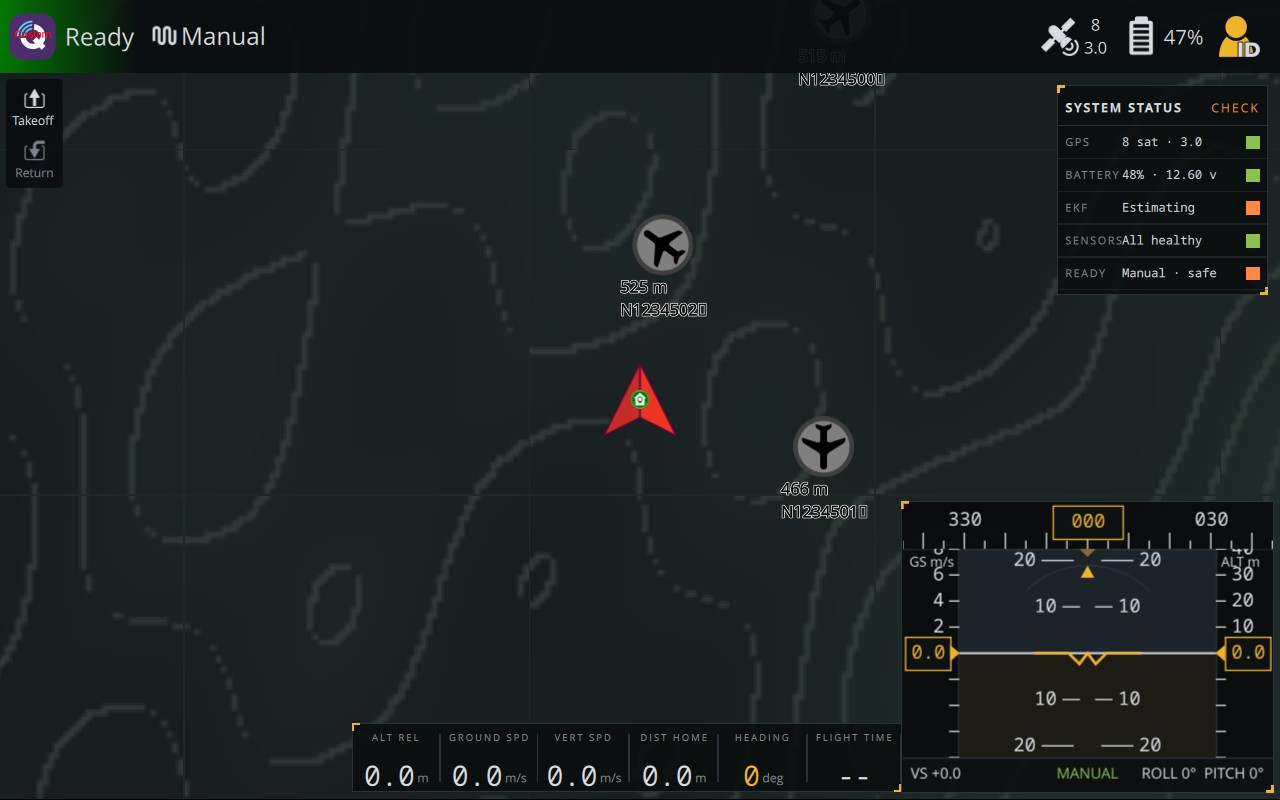
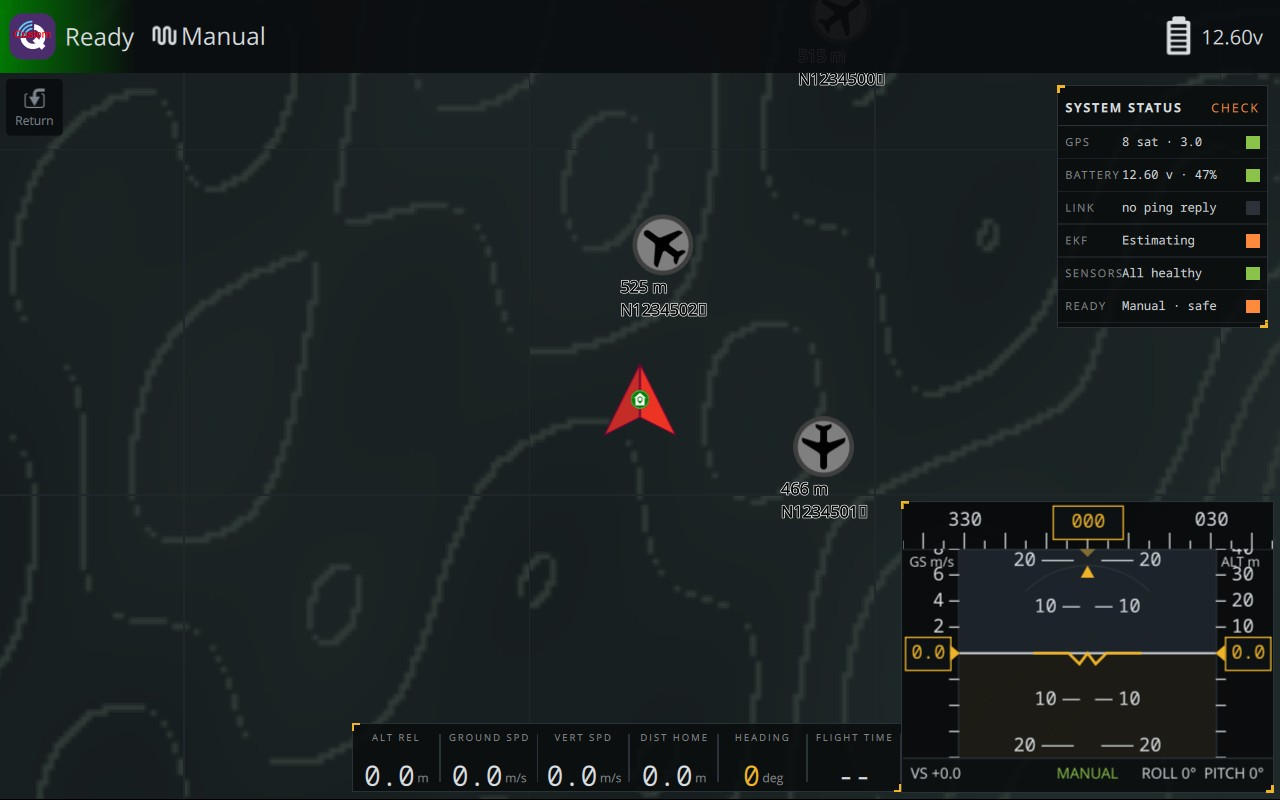
Gate FPV-irrelevant settings pages behind advanced mode
Ships a copy of the generated settings page list with Plan View, ADS-B,
Maps, NTRIP/RTK, Remote ID and PX4 log transfer visible only in advanced
mode, hides guided-flight and mission items from the Fly View settings page,
turns the multi-vehicle panel off by default, and uses the literal QML
global settings group name since the constant is private. Adds real-build
screenshots of the menus and settings screens.

Claude-Session: https://claude.ai/code/session_015ZbBAPtYojzH3XoqWn6y18

Changed region(s): [[0.8438, 0.1875, 1.0, 0.4062], [0.8125, 0.0, 1.0, 0.0938], [0.0, 0.0938, 0.0625, 0.25]]

diff --git a/custom/src/SettingsPagesModel.qml b/custom/src/SettingsPagesModel.qml
@@ -1,0 +1,193 @@
+import QtQml.Models
+
+import QGroundControl
+import QGroundControl.Controls
+
+// Stealth FPV override of the generated settings page list (src/UI/AppSettings/pages/SettingsPages.json).
+// Pages an FPV pilot does not need are advanced-mode only. Regenerate from the build
+// directory (src/UI/AppSettings/generated/SettingsPagesModel.qml) after upstream changes.
+
+ListModel {
+
+    ListElement {
+        name: qsTranslate("SettingsPages.json", "General")
+        url: "qrc:/qml/QGroundControl/AppSettings/GeneralSettings.qml"
+        iconUrl: "qrc:/res/QGCLogoWhite.svg"
+        sections: '["General", "Vehicle Preferences", "Units"]'
+        searchTerms: '[{"section": 0, "terms": "general language locale color scheme dark mode theme palette follow me audio volume sound gstreamer debug level ui scale font size zoom save path storage reset clear settings factory reset"}, {"section": 1, "terms": "general vehicle preferences firmware ardupilot px4 vehicle multirotor fixed wing vtol rover sub"}, {"section": 2, "terms": "general units metric imperial distance speed area temperature feet meters"}]'
+        translatableTerms: '[{"section": 0, "context": "General.SettingsUI.json", "terms": ["General", "language", "locale", "color scheme", "dark mode", "theme", "palette", "follow me", "audio", "volume", "sound", "gstreamer", "debug level", "ui scale", "font size", "zoom", "save path", "storage", "reset", "clear settings", "factory reset"]}, {"section": 1, "context": "General.SettingsUI.json", "terms": ["Vehicle Preferences", "firmware", "ardupilot", "px4", "vehicle", "multirotor", "fixed wing", "vtol", "rover", "sub"]}, {"section": 2, "context": "General.SettingsUI.json", "terms": ["Units", "units", "metric", "imperial", "distance", "speed", "area", "temperature", "feet", "meters"]}]'
+        pageVisible: function() { return true }
+    }
+
+    ListElement {
+        name: qsTranslate("SettingsPages.json", "Fly View")
+        url: "qrc:/qml/QGroundControl/AppSettings/FlyViewSettings.qml"
+        iconUrl: "qrc:/qmlimages/PaperPlane.svg"
+        sections: '["General", "Guided Commands", "MAVLink Actions", "Virtual Joystick", "Instrument Panel"]'
+        searchTerms: '[{"section": 0, "terms": "fly view general checklist preflight multi vehicle center map log replay camera control home position mission popup"}, {"section": 1, "terms": "fly view guided commands altitude guided minimum maximum goto go to loiter radius confirmation"}, {"section": 2, "terms": "fly view mavlink actions mavlink action pre-arm post-arm disarm"}, {"section": 3, "terms": "fly view virtual joystick joystick virtual stick throttle left handed auto center"}, {"section": 4, "terms": "fly view instrument panel compass indicators hud instrument nose up"}]'
+        translatableTerms: '[{"section": 0, "context": "FlyView.SettingsUI.json", "terms": ["General", "checklist", "preflight", "multi vehicle", "center map", "log replay", "camera control", "home position", "mission popup"]}, {"section": 1, "context": "FlyView.SettingsUI.json", "terms": ["Guided Commands", "altitude", "guided", "minimum", "maximum", "goto", "go to", "loiter radius", "confirmation"]}, {"section": 2, "context": "FlyView.SettingsUI.json", "terms": ["MAVLink Actions", "mavlink action", "pre-arm", "post-arm", "disarm"]}, {"section": 3, "context": "FlyView.SettingsUI.json", "terms": ["Virtual Joystick", "joystick", "virtual stick", "throttle", "left handed", "auto center"]}, {"section": 4, "context": "FlyView.SettingsUI.json", "terms": ["Instrument Panel", "compass", "indicators", "hud", "instrument", "nose up"]}]'
+        pageVisible: function() { return true }
+    }
+
+    ListElement {
+        name: qsTranslate("SettingsPages.json", "3D View")
+        url: "qrc:/qml/QGroundControl/AppSettings/Viewer3DSettings.qml"
+        iconUrl: "qrc:/qml/QGroundControl/Viewer3D/City3DMapIcon.svg"
+        sections: '["General", "Data"]'
+        searchTerms: '[{"section": 0, "terms": "3d view general 3d map enable 3d map provider"}, {"section": 1, "terms": "3d view data osm openstreetmap 3d data building height altitude bias"}]'
+        translatableTerms: '[{"section": 0, "context": "Viewer3D.SettingsUI.json", "terms": ["General", "3d view", "3d map", "enable 3d", "map provider"]}, {"section": 1, "context": "Viewer3D.SettingsUI.json", "terms": ["Data", "osm", "openstreetmap", "3d data", "building height", "altitude bias"]}]'
+        pageVisible: function() { return QGroundControl.settingsManager.viewer3DSettings.userVisible }
+    }
+
+    ListElement {
+        name: qsTranslate("SettingsPages.json", "Plan View")
+        url: "qrc:/qml/QGroundControl/AppSettings/PlanViewSettings.qml"
+        iconUrl: "qrc:/qmlimages/Plan.svg"
+        sections: '["General"]'
+        searchTerms: '[{"section": 0, "terms": "plan view general mission altitude default altitude vtol transition condition gate takeoff landing pattern waypoint"}]'
+        translatableTerms: '[{"section": 0, "context": "PlanView.SettingsUI.json", "terms": ["General", "mission altitude", "default altitude", "vtol transition", "condition gate", "takeoff", "landing pattern", "waypoint"]}]'
+        pageVisible: function() { return QGroundControl.corePlugin.showAdvancedUI }
+    }
+
+    ListElement {
+        name: "Divider"
+    }
+
+    ListElement {
+        name: qsTranslate("SettingsPages.json", "ADSB Server")
+        url: "qrc:/qml/QGroundControl/AppSettings/ADSBServerSettings.qml"
+        iconUrl: "qrc:/InstrumentValueIcons/airplane.svg"
+        sections: '["ADSB Server"]'
+        searchTerms: '[{"section": 0, "terms": "adsb server adsb ads-b traffic aircraft tracking sbs server host port"}]'
+        translatableTerms: '[{"section": 0, "context": "ADSBVehicleManager.SettingsUI.json", "terms": ["ADSB Server", "adsb", "ads-b", "traffic", "aircraft", "tracking", "sbs", "server", "host", "port"]}]'
+        pageVisible: function() { return QGroundControl.corePlugin.showAdvancedUI }
+    }
+
+    ListElement {
+        name: qsTranslate("SettingsPages.json", "Comm Links")
+        url: "qrc:/qml/QGroundControl/AppSettings/CommLinksSettings.qml"
+        iconUrl: "qrc:/InstrumentValueIcons/usb.svg"
+        sections: '["AutoConnect", "NMEA GPS", "Link Management"]'
+        searchTerms: '[{"section": 0, "terms": "comm links autoconnect auto connect pixhawk sik radio librepilot udp rtk gps usb"}, {"section": 1, "terms": "comm links nmea gps nmea gps serial baud rate external gps"}, {"section": 2, "terms": "comm links link management link connection serial tcp udp bluetooth add link"}]'
+        translatableTerms: '[{"section": 0, "context": "CommLinks.SettingsUI.json", "terms": ["AutoConnect", "auto connect", "pixhawk", "sik radio", "librepilot", "udp", "rtk gps", "usb"]}, {"section": 1, "context": "CommLinks.SettingsUI.json", "terms": ["NMEA GPS", "nmea", "gps", "serial", "baud rate", "external gps"]}, {"section": 2, "context": "CommLinks.SettingsUI.json", "terms": ["Link Management", "link", "connection", "serial", "tcp", "udp", "bluetooth", "add link"]}]'
+        pageVisible: function() { return true }
+    }
+
+    ListElement {
+        name: qsTranslate("SettingsPages.json", "Logging")
+        url: "qrc:/qml/QGroundControl/LogManager/AppLogging.qml"
+        iconUrl: "qrc:/InstrumentValueIcons/conversation.svg"
+        sections: '[]'
+        searchTerms: '[]'
+        translatableTerms: '[]'
+        pageVisible: function() { return true }
+    }
+
+    ListElement {
+        name: qsTranslate("SettingsPages.json", "Maps")
+        url: "qrc:/qml/QGroundControl/AppSettings/MapsSettings.qml"
+        iconUrl: "qrc:/InstrumentValueIcons/globe.svg"
+        sections: '["Map Provider", "Offline Maps", "Tokens", "Mapbox Login", "Custom Map URL", "Tile Cache"]'
+        searchTerms: '[{"section": 0, "terms": "maps map provider satellite terrain street hybrid google bing"}, {"section": 1, "terms": "maps offline maps offline download cache tile set"}, {"section": 2, "terms": "maps tokens token api key tianditu mapbox esri vworld openaip"}, {"section": 3, "terms": "maps mapbox login mapbox account style"}, {"section": 4, "terms": "maps custom map url custom map wms tile url tile server"}, {"section": 5, "terms": "maps tile cache cache disk size memory size"}]'
+        translatableTerms: '[{"section": 0, "context": "Maps.SettingsUI.json", "terms": ["Map Provider", "map provider", "satellite", "terrain", "street", "hybrid", "google", "bing"]}, {"section": 1, "context": "Maps.SettingsUI.json", "terms": ["Offline Maps", "offline", "download", "cache", "tile set"]}, {"section": 2, "context": "Maps.SettingsUI.json", "terms": ["Tokens", "token", "api key", "tianditu", "mapbox", "esri", "vworld", "openaip"]}, {"section": 3, "context": "Maps.SettingsUI.json", "terms": ["Mapbox Login", "mapbox", "account", "style"]}, {"section": 4, "context": "Maps.SettingsUI.json", "terms": ["Custom Map URL", "custom map", "wms", "tile url", "tile server"]}, {"section": 5, "context": "Maps.SettingsUI.json", "terms": ["Tile Cache", "cache", "disk size", "memory size", "tile cache"]}]'
+        pageVisible: function() { return QGroundControl.corePlugin.showAdvancedUI }
+    }
+
+    ListElement {
+        name: qsTranslate("SettingsPages.json", "NTRIP/RTK")
+        url: "qrc:/qml/QGroundControl/AppSettings/NTRIPSettings.qml"
+        iconUrl: "qrc:/InstrumentValueIcons/globe.svg"
+        sections: '["Connection Status", "Server Settings", "Mountpoint Browser", "Options", "UDP Forwarding"]'
+        searchTerms: '[{"section": 0, "terms": "ntrip/rtk connection status ntrip rtk corrections"}, {"section": 1, "terms": "ntrip/rtk server settings ntrip server rtk caster host port username password mountpoint"}, {"section": 2, "terms": "ntrip/rtk mountpoint browser mountpoint browse stream"}, {"section": 3, "terms": "ntrip/rtk options rtcm whitelist message filter ntrip"}, {"section": 4, "terms": "ntrip/rtk udp forwarding udp forward relay corrections forward rtcm"}]'
+        translatableTerms: '[{"section": 0, "context": "NTRIP.SettingsUI.json", "terms": ["Connection Status", "ntrip", "rtk", "connection status", "corrections"]}, {"section": 1, "context": "NTRIP.SettingsUI.json", "terms": ["Server Settings", "ntrip server", "rtk", "caster", "host", "port", "username", "password", "mountpoint"]}, {"section": 2, "context": "NTRIP.SettingsUI.json", "terms": ["Mountpoint Browser", "mountpoint", "browse", "stream"]}, {"section": 3, "context": "NTRIP.SettingsUI.json", "terms": ["Options", "rtcm", "whitelist", "message filter", "ntrip"]}, {"section": 4, "context": "NTRIP.SettingsUI.json", "terms": ["UDP Forwarding", "udp forward", "relay", "corrections forward", "rtcm"]}]'
+        pageVisible: function() { return QGroundControl.corePlugin.showAdvancedUI && (QGroundControl.settingsManager && QGroundControl.settingsManager.ntripSettings !== undefined) }
+    }
+
+    ListElement {
+        name: qsTranslate("SettingsPages.json", "PX4 Log Transfer")
+        url: "qrc:/qml/QGroundControl/AppSettings/PX4LogTransferSettings.qml"
+        iconUrl: "qrc:/InstrumentValueIcons/inbox-download.svg"
+        sections: '["Log Control", "Upload Settings", "Log Files"]'
+        searchTerms: '[{"section": 0, "terms": "px4 log transfer log control px4 log logging start log stop log auto log"}, {"section": 1, "terms": "px4 log transfer upload settings upload flight review email description wind rating"}, {"section": 2, "terms": "px4 log transfer log files download delete upload logs"}]'
+        translatableTerms: '[{"section": 0, "context": "PX4LogTransfer.SettingsUI.json", "terms": ["Log Control", "px4 log", "logging", "start log", "stop log", "auto log"]}, {"section": 1, "context": "PX4LogTransfer.SettingsUI.json", "terms": ["Upload Settings", "upload", "flight review", "email", "description", "wind", "rating"]}, {"section": 2, "context": "PX4LogTransfer.SettingsUI.json", "terms": ["Log Files", "log files", "download", "delete", "upload logs"]}]'
+        pageVisible: function() { return QGroundControl.corePlugin.showAdvancedUI && QGroundControl.corePlugin.options.showPX4LogTransferOptions && QGroundControl.px4ProFirmwareSupported && (QGroundControl.multiVehicleManager.activeVehicle ? QGroundControl.multiVehicleManager.activeVehicle.px4Firmware : true) }
+    }
+
+    ListElement {
+        name: qsTranslate("SettingsPages.json", "Remote ID")
+        url: "qrc:/qml/QGroundControl/AppSettings/RemoteIDSettings.qml"
+        iconUrl: "qrc:/qmlimages/RidIconManNoID.svg"
+        sections: '["Region", "Basic ID", "Operator ID", "Self ID", "GroundStation Location", "GCS Position", "GPS Location", "EU Vehicle Info"]'
+        searchTerms: '[{"section": 0, "terms": "remote id region faa eu regulation"}, {"section": 1, "terms": "remote id basic id serial number drone id ua type registration broadcast"}, {"section": 2, "terms": "remote id operator id operator pilot registration broadcast"}, {"section": 3, "terms": "remote id self id flight purpose emergency broadcast description"}, {"section": 4, "terms": "remote id groundstation location ground station gcs location latitude longitude altitude fixed position gnss"}, {"section": 5, "terms": "remote id gcs position latitude longitude hdop"}, {"section": 6, "terms": "remote id gps location gps nmea hdop position"}, {"section": 7, "terms": "remote id eu vehicle info eu classification category class ce marking"}]'
+        translatableTerms: '[{"section": 0, "context": "RemoteID.SettingsUI.json", "terms": ["Region", "region", "faa", "eu", "remote id", "regulation"]}, {"section": 1, "context": "RemoteID.SettingsUI.json", "terms": ["Basic ID", "basic id", "serial number", "drone id", "ua type", "registration", "broadcast"]}, {"section": 2, "context": "RemoteID.SettingsUI.json", "terms": ["Operator ID", "operator", "pilot", "registration", "broadcast"]}, {"section": 3, "context": "RemoteID.SettingsUI.json", "terms": ["Self ID", "self id", "flight purpose", "emergency", "broadcast", "description"]}, {"section": 4, "context": "RemoteID.SettingsUI.json", "terms": ["GroundStation Location", "ground station", "gcs location", "latitude", "longitude", "altitude", "fixed position", "gnss"]}, {"section": 5, "context": "RemoteID.SettingsUI.json", "terms": ["GCS Position", "latitude", "longitude", "hdop", "gcs position"]}, {"section": 6, "context": "RemoteID.SettingsUI.json", "terms": ["GPS Location", "gps", "nmea", "hdop", "position"]}, {"section": 7, "context": "RemoteID.SettingsUI.json", "terms": ["EU Vehicle Info", "eu", "classification", "category", "class", "ce marking"]}]'
+        pageVisible: function() { return QGroundControl.corePlugin.showAdvancedUI }
+    }
+
+    ListElement {
+        name: qsTranslate("SettingsPages.json", "Telemetry")
+        url: "qrc:/qml/QGroundControl/AppSettings/TelemetrySettings.qml"
+        iconUrl: "qrc:/InstrumentValueIcons/drone.svg"
+        sections: '["Ground Station", "MAVLink Forwarding", "Logging", "Stream Rates (ArduPilot Only)", "Signing Key", "Link Status"]'
+        searchTerms: '[{"section": 0, "terms": "telemetry ground station system id mavlink id heartbeat initial download gcs"}, {"section": 1, "terms": "telemetry mavlink forwarding forward relay mavlink forward host"}, {"section": 2, "terms": "telemetry logging telemetry log tlog save log recording csv"}, {"section": 3, "terms": "telemetry stream rates (ardupilot only) stream rate ardupilot apm raw sensors rc channels position rate"}, {"section": 4, "terms": "telemetry signing key signing encryption key security mavlink2"}, {"section": 5, "terms": "telemetry link status packet loss received sent latency"}]'
+        translatableTerms: '[{"section": 0, "context": "Telemetry.SettingsUI.json", "terms": ["Ground Station", "system id", "mavlink id", "heartbeat", "initial download", "gcs"]}, {"section": 1, "context": "Telemetry.SettingsUI.json", "terms": ["MAVLink Forwarding", "forward", "relay", "mavlink forward", "host"]}, {"section": 2, "context": "Telemetry.SettingsUI.json", "terms": ["Logging", "telemetry log", "tlog", "save log", "recording", "csv"]}, {"section": 3, "context": "Telemetry.SettingsUI.json", "terms": ["Stream Rates (ArduPilot Only)", "stream rate", "ardupilot", "apm", "raw sensors", "rc channels", "position rate"]}, {"section": 4, "context": "Telemetry.SettingsUI.json", "terms": ["Signing Key", "signing", "encryption", "key", "security", "mavlink2"]}, {"section": 5, "context": "Telemetry.SettingsUI.json", "terms": ["Link Status", "link status", "packet loss", "received", "sent", "latency"]}]'
+        pageVisible: function() { return true }
+    }
+
+    ListElement {
+        name: qsTranslate("SettingsPages.json", "Video")
+        url: "qrc:/qml/QGroundControl/AppSettings/VideoSettings.qml"
+        iconUrl: "qrc:/InstrumentValueIcons/camera.svg"
+        sections: '["Video Source", "Connection", "Settings", "Local Video Storage"]'
+        searchTerms: '[{"section": 0, "terms": "video video source camera stream"}, {"section": 1, "terms": "video connection rtsp tcp udp mpegts video url stream url"}, {"section": 2, "terms": "video settings aspect ratio low latency decoder hardware decode disable when disarmed gpu zero-copy"}, {"section": 3, "terms": "video local video storage record recording format mp4 mkv storage limit video file"}]'
+        translatableTerms: '[{"section": 0, "context": "Video.SettingsUI.json", "terms": ["Video Source", "video source", "camera", "stream"]}, {"section": 1, "context": "Video.SettingsUI.json", "terms": ["Connection", "rtsp", "tcp", "udp", "mpegts", "video url", "stream url"]}, {"section": 2, "context": "Video.SettingsUI.json", "terms": ["Settings", "aspect ratio", "low latency", "decoder", "hardware decode", "disable when disarmed", "gpu", "zero-copy"]}, {"section": 3, "context": "Video.SettingsUI.json", "terms": ["Local Video Storage", "record", "recording format", "mp4", "mkv", "storage limit", "video file"]}]'
+        pageVisible: function() { return QGroundControl.settingsManager.videoSettings.userVisible }
+    }
+
+    ListElement {
+        name: "Divider"
+    }
+
+    ListElement {
+        name: qsTranslate("SettingsPages.json", "Help")
+        url: "qrc:/qml/QGroundControl/AppSettings/HelpSettings.qml"
+        iconUrl: "qrc:/InstrumentValueIcons/question.svg"
+        sections: '[]'
+        searchTerms: '[]'
+        translatableTerms: '[]'
+        pageVisible: function() { return true }
+    }
+
+    ListElement {
+        name: "Divider"
+    }
+
+    ListElement {
+        name: qsTranslate("SettingsPages.json", "Mock Link")
+        url: "qrc:/qml/QGroundControl/AppSettings/MockLink.qml"
+        iconUrl: "qrc:/InstrumentValueIcons/drone.svg"
+        sections: '[]'
+        searchTerms: '[]'
+        translatableTerms: '[]'
+        pageVisible: function() { return ScreenTools.isDebug }
+    }
+
+    ListElement {
+        name: qsTranslate("SettingsPages.json", "Debug")
+        url: "qrc:/qml/QGroundControl/AppSettings/DebugWindow.qml"
+        iconUrl: "qrc:/InstrumentValueIcons/bug.svg"
+        sections: '[]'
+        searchTerms: '[]'
+        translatableTerms: '[]'
+        pageVisible: function() { return ScreenTools.isDebug }
+    }
+
+    ListElement {
+        name: qsTranslate("SettingsPages.json", "Palette Test")
+        url: "qrc:/qml/QGroundControl/AppSettings/QmlTest.qml"
+        iconUrl: "qrc:/InstrumentValueIcons/photo.svg"
+        sections: '[]'
+        searchTerms: '[]'
+        translatableTerms: '[]'
+        pageVisible: function() { return ScreenTools.isDebug }
+    }
+}

diff --git a/custom/src/CustomPlugin.cc b/custom/src/CustomPlugin.cc
@@ -5,7 +5,7 @@
 #include "QGCMAVLink.h"
 #include "AppSettings.h"
 #include "BatteryIndicatorSettings.h"
-#include "QGroundControlQmlGlobal.h"
+#include "FlyViewSettings.h"
 #include "SettingsManager.h"
 #include "StealthLinkStats.h"
 #include "ADSBVehicleManagerSettings.h"
@@ -64,7 +64,7 @@ void CustomPlugin::init()
     // Small-tablet FPV: video is the main window and the map picture-in-picture starts hidden.
     // These are plain QML global settings, so only seed them when the user has not chosen yet.
     QSettings settings;
-    settings.beginGroup(QGroundControlQmlGlobal::kQmlGlobalKeyName);
+    settings.beginGroup(QStringLiteral("QGCQml"));   // QGroundControlQmlGlobal::kQmlGlobalKeyName is private
     if (!settings.contains(QStringLiteral("MainFlyWindowIsMap"))) {
         settings.setValue(QStringLiteral("MainFlyWindowIsMap"), false);
     }
@@ -176,6 +176,26 @@ void CustomPlugin::adjustSettingMetaData(const QString& settingsGroup, FactMetaD
         } else if (metaData.name() == AppSettings::indoorPaletteName) {
             // The Stealth skin only styles the dark scheme, so make it the default.
             metaData.setRawDefaultValue(1);
+            return;
+        } else if (metaData.name() == AppSettings::enableMultiVehiclePanelName) {
+            metaData.setRawDefaultValue(false);
+            userVisible = false;
+            return;
+        }
+    } else if (settingsGroup == FlyViewSettings::settingsGroup) {
+        // Guided-flight and mission settings have no use in a manual FPV build.
+        static const QStringList hiddenFlyViewSettings = {
+            FlyViewSettings::guidedMinimumAltitudeName,
+            FlyViewSettings::guidedMaximumAltitudeName,
+            FlyViewSettings::maxGoToLocationDistanceName,
+            FlyViewSettings::forwardFlightGoToLocationLoiterRadName,
+            FlyViewSettings::goToLocationRequiresConfirmInGuidedName,
+            FlyViewSettings::enableAutomaticMissionPopupsName,
+            FlyViewSettings::keepMapCenteredOnVehicleName,
+            FlyViewSettings::showLogReplayStatusBarName,
+        };
+        if (hiddenFlyViewSettings.contains(metaData.name())) {
+            userVisible = false;
             return;
         }
     } else if (settingsGroup == BatteryIndicatorSettings::settingsGroup) {

diff --git a/design/ui-skins/README.md b/design/ui-skins/README.md
@@ -64,6 +64,11 @@ PX4 quadrotor connected:
 | `screenshots/real/stealth-real-tablet-fly.jpg` | Fly view, 1280×800 at 1.35× scale (7-inch tablet emulation) |
 | `screenshots/real/stealth-real-tablet-plan.jpg` | Plan view, same emulation |
 | `screenshots/real/stealth-real-tablet-menu.jpg` | View selector on the tablet layout, Plan hidden |
+| `screenshots/real/stealth-real-tablet-settings.jpg` | Application Settings, FPV-trimmed page list |
+| `screenshots/real/stealth-real-tablet-settings-flyview.jpg` | Fly View settings without guided/mission items |
+| `screenshots/real/stealth-real-tablet-battery.jpg` | Battery indicator popup |
+| `screenshots/real/stealth-real-tablet-flightmode.jpg` | Flight mode popup |
+| `screenshots/real/stealth-real-tablet-configure.jpg` | Vehicle Configuration (Safety only outside advanced mode) |
 | `screenshots/real/stealth-real-desktop-fly.jpg` | Fly view, 1920×1080 |
 | `screenshots/real/stealth-real-desktop-plan.jpg` | Plan view, 1920×1080 |
 

diff --git a/custom/README.md b/custom/README.md
@@ -40,6 +40,10 @@ Colours come from `QGCPalette` only, so the NVG or Neon palettes from
 - Battery indicator shows voltage by default.
 - Video is the main window and the map picture-in-picture starts hidden
   (seeded once in `CustomPlugin::init`; the user's later choice is kept).
+- Application Settings pages for Plan View, ADS-B, Maps, NTRIP/RTK, Remote ID
+  and PX4 log transfer are advanced-mode only (`src/SettingsPagesModel.qml`,
+  a copy of the generated page list with `pageVisible` gated). Guided-flight
+  and mission items are removed from the Fly View settings page.
 - Plan view, Analyze, firmware upgrade and sensor calibration are advanced-mode
   only. The Plan View, 3D viewer, ADS-B, NTRIP/RTK, Maps, Flight Map, Offline
   Maps and Remote ID settings groups are hidden until advanced mode is switched
